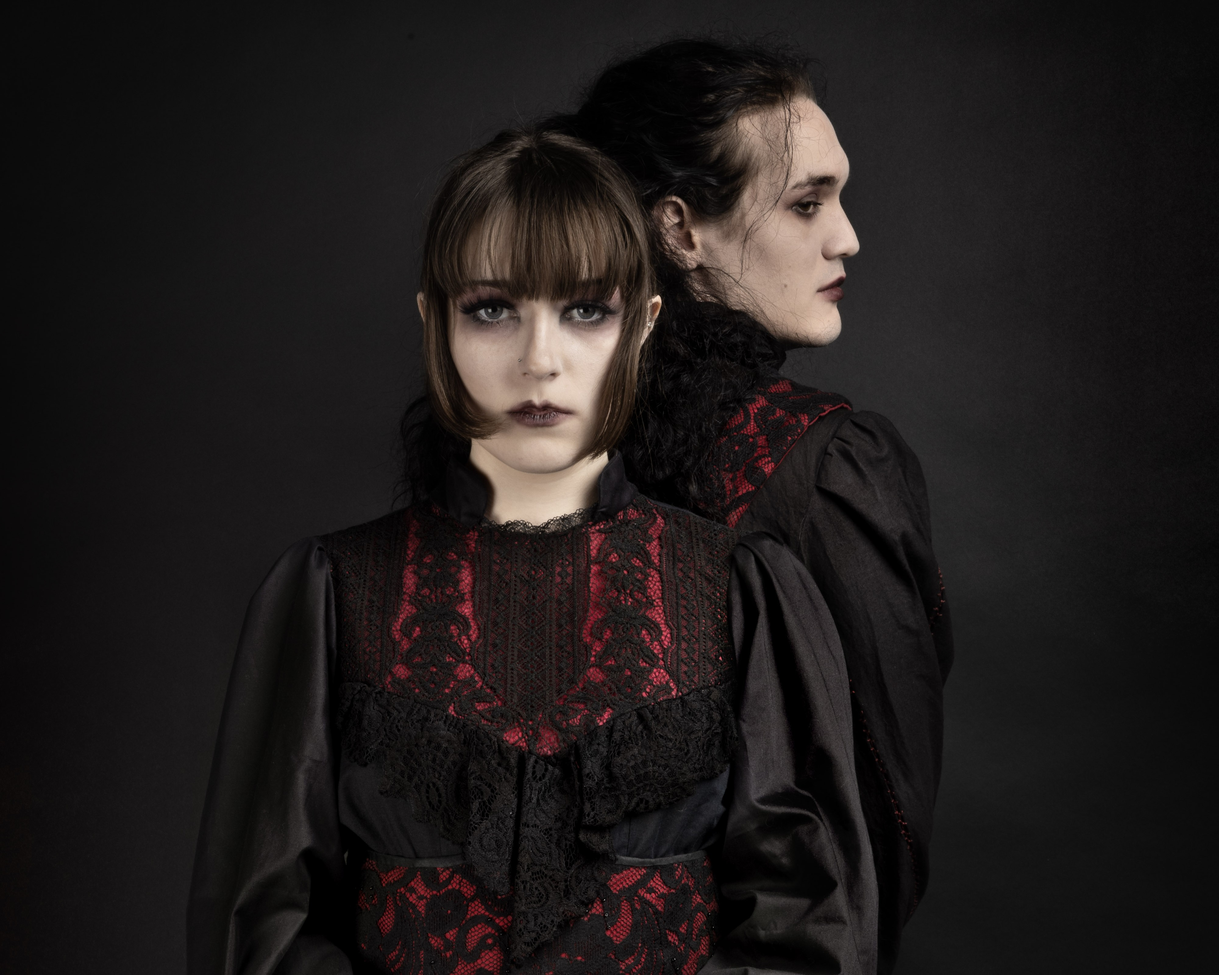
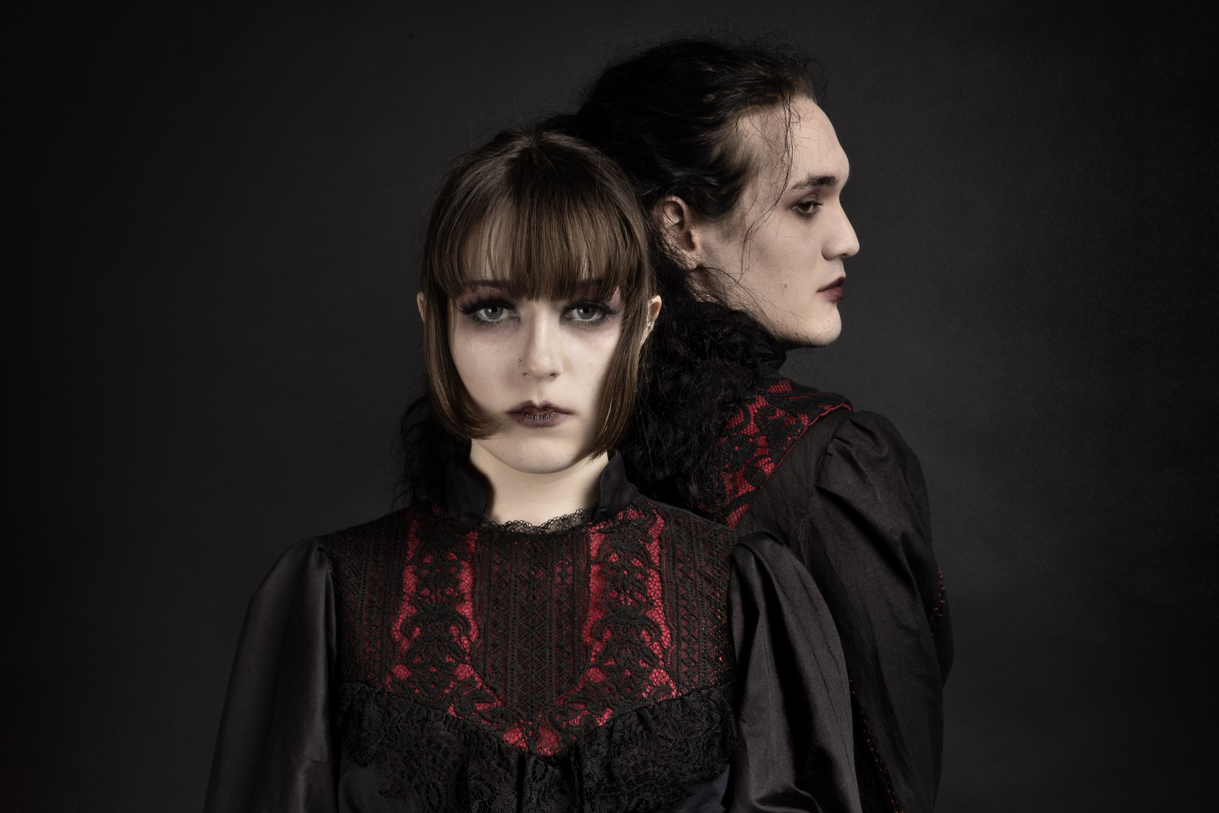
MAde neww file for noctpresent, made new carousel

Changed region(s): [[0.2188, 0.0934, 0.7812, 1.0], [0.1875, 0.9959, 0.2188, 1.0]]

diff --git a/Index.html b/Index.html
@@ -22,7 +22,7 @@
                 <a href="Index.html">Home</a>
             
                 <div class="dropdown navItem"><a href="#projects">Projects</a>
-                    <div class="dropdown-content"> yolo </div>
+                    <div class="dropdown-content"><a href="nocturnalsymphonypresentation.html">Nocturnal Symphony Presentation</a></div>
                 </div>
                 <a href="#contact">Contact</a>
             </div>
@@ -31,44 +31,44 @@
         <a id="main_content"></a>
     
         <p class="Introduction">Welcome to my website</p>
+        <div class="mainBody">
+            <div class="container">
+                <a id="projects"></a>
+                <div class="row">
+                    <div class="col-sm-4">
+                        <a href="https://drive.google.com/file/d/1lPlJNCnS4EujuvZ2B5HvvwswGOeHgabS/view">
+                            <img src="Assets/NoctSympresent.png" style="max-width: 80%">
+                            <p>Nocturnal Symphony: Presentation</p>
+                        </a>
+                    </div>
+                    <div class="col-sm-4">
+                        <img src="Assets/NoctSymGallery.jpg" style="max-width: 80%">
+                        <p>Nocturnal Symphony: Gallery</p>
+                    </div>
+                    <div class="col-sm-4">
+                        <img src="Assets/SouthGoth.png" style="max-width: 80%">
+                        <p>Lip Service X Southern Gothicana</p>
+                    </div>
+                </div>
+                <div class="row">
+                    <div class="col-sm-4">
+                            <img src="Assets/LoneWanderer.jpg" style="max-width: 80%">
+                            <p>Lone Wanderer</p>
+                        </a>
+                    </div>
+                    <div class="col-sm-4">
+                        <img src="Assets/Faker.png" style="max-width: 80%">
+                        <p>Faker</p>
+                    </div>
+                    <div class="col-sm-4">
+                        <img src="Assets/SouthGoth.png" style="max-width: 80%">
+                        <p>Lip Service X Southern Gothicana</p>
+                    </div>
+                </div>
+                <a id="contact"></a>
+                <div class="row">
 
-        <div class="container">
-            <a id="projects"></a>
-            <div class="row">
-                <div class="col-sm-4">
-                    <a href="https://drive.google.com/file/d/1lPlJNCnS4EujuvZ2B5HvvwswGOeHgabS/view">
-                        <img src="Assets/NoctSympresent.png" style="max-width: 80%">
-                        <p>Nocturnal Symphony: Presentation</p>
-                    </a>
                 </div>
-                <div class="col-sm-4">
-                    <img src="Assets/NoctSymGallery.jpg" style="max-width: 80%">
-                    <p>Nocturnal Symphony: Gallery</p>
-                </div>
-                <div class="col-sm-4">
-                    <img src="Assets/SouthGoth.png" style="max-width: 80%">
-                    <p>Lip Service X Southern Gothicana</p>
-                </div>
-            </div>
-             <div class="row">
-                <div class="col-sm-4">
-                    <a href="https://drive.google.com/file/d/1lPlJNCnS4EujuvZ2B5HvvwswGOeHgabS/view">
-                        <img src="Assets/NoctSympresent.png" style="max-width: 80%">
-                        <p>Nocturnal Symphony: Presentation</p>
-                    </a>
-                </div>
-                <div class="col-sm-4">
-                    <img src="Assets/NoctSymGallery.jpg" style="max-width: 80%">
-                    <p>Nocturnal Symphony: Gallery</p>
-                </div>
-                <div class="col-sm-4">
-                    <img src="Assets/SouthGoth.png" style="max-width: 80%">
-                    <p>Lip Service X Southern Gothicana</p>
-                </div>
-            </div>
-            <a id="contact"></a>
-            <div class="row">
-
             </div>
         </div>
         <footer>

diff --git a/nocturnalsymphonypresentation.html b/nocturnalsymphonypresentation.html
@@ -1,0 +1,81 @@
+<!DOCTYPE hmtl>
+<html lang ="en">
+   <head>
+        <meta charset="utf-8">
+        <meta name="viewport" content="width=device-width, initial-scale=1">
+        <!-- Bootstrap Style Sheet-->
+        <link href="https://cdn.jsdelivr.net/npm/bootstrap@5.3.8/dist/css/bootstrap.min.css" rel="stylesheet" integrity="sha384-sRIl4kxILFvY47J16cr9ZwB07vP4J8+LH7qKQnuqkuIAvNWLzeN8tE5YBujZqJLB" crossorigin="anonymous">
+        <!-- Personal Style Sheet-->
+        <link rel="stylesheet" href="stylesheet.css">
+        <title>Nocturnal Symphony Presentation</title>
+    </head> 
+
+    <body>
+        <a class="main_content_skip" href="#main_content">skip to main content</a>
+        <h1>Zarafentiel Dupont</h1>
+        <header>
+            <!-- navigation -->
+            <div class="topnav">
+                <a href="Index.html">Home</a>
+            
+                <div class="dropdown navItem"><a href="#projects">Projects</a>
+                    <div class="dropdown-content"><a href="nocturnalsymphonypresentation.html"> Nocturnal Symphony Presentation</a></div>
+                </div>
+                <a href="#contact">Contact</a>
+            </div>
+        </header>
+        <a id="main_content"></a>
+        <div class="mainBody">
+            <div class="container">
+                <div class="row">
+                    <div class="col-md-6">
+                        <p>Description of Project</p>
+
+                    </div>
+                    <div class="col-md-6">
+                        <!-- Carousel -->
+                        <div id="demo" class="carousel slide" data-bs-ride="carousel">
+
+                            <!-- Indicators/dots -->
+                            <div class="carousel-indicators">
+                                <button type="button" data-bs-target="#demo" data-bs-slide-to="0" class="active"></button>
+                                <button type="button" data-bs-target="#demo" data-bs-slide-to="1"></button>
+                                <button type="button" data-bs-target="#demo" data-bs-slide-to="2"></button>
+                            </div>
+
+                            <!-- The slideshow/carousel -->
+                            <div class="carousel-inner">
+                                <div class="carousel-item active">
+                                <img src="Assets/NoctSympresent.png" alt="Silde 1" class="d-block w-100">
+                                </div>
+                                <div class="carousel-item">
+                                <img src="Assets/NoctSymGallery.jpg" alt="Slide 2" class="d-block w-100">
+                                </div>
+                                <div class="carousel-item">
+                                <img src="Assets/NoctSympresent.png" alt="Slide 3" class="d-block w-100">
+                                </div>
+                            </div>
+
+                            <!-- Left and right controls/icons -->
+                            <button class="carousel-control-prev" type="button" data-bs-target="#demo" data-bs-slide="prev">
+                                <span class="carousel-control-prev-icon"></span>
+                            </button>
+                            <button class="carousel-control-next" type="button" data-bs-target="#demo" data-bs-slide="next">
+                                <span class="carousel-control-next-icon"></span>
+                            </button>
+                        </div>
+
+                    </div>
+                    
+                </div>
+            </div>
+        </div>
+         <footer>
+            <p>&copy; 2026 Zarafentiel Dupont. All rights reserved.</p>
+        </footer>
+
+        <!-- Bootstrap Javascript Bundle-->
+        <script src="https://cdn.jsdelivr.net/npm/bootstrap@5.3.8/dist/js/bootstrap.bundle.min.js" integrity="sha384-FKyoEForCGlyvwx9Hj09JcYn3nv7wiPVlz7YYwJrWVcXK/BmnVDxM+D2scQbITxI" crossorigin="anonymous"></script>
+        
+    </body>
+</html>
